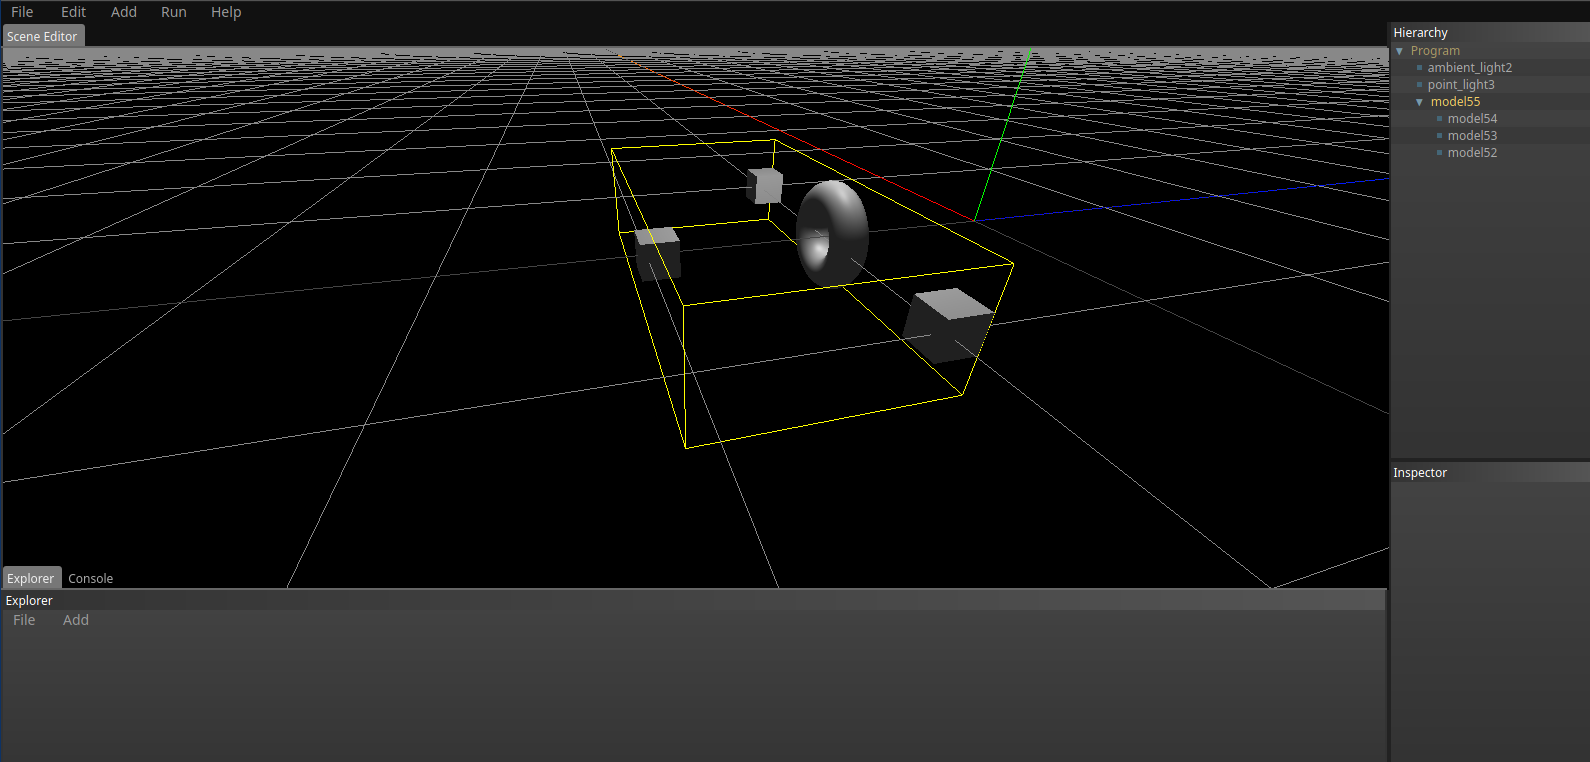
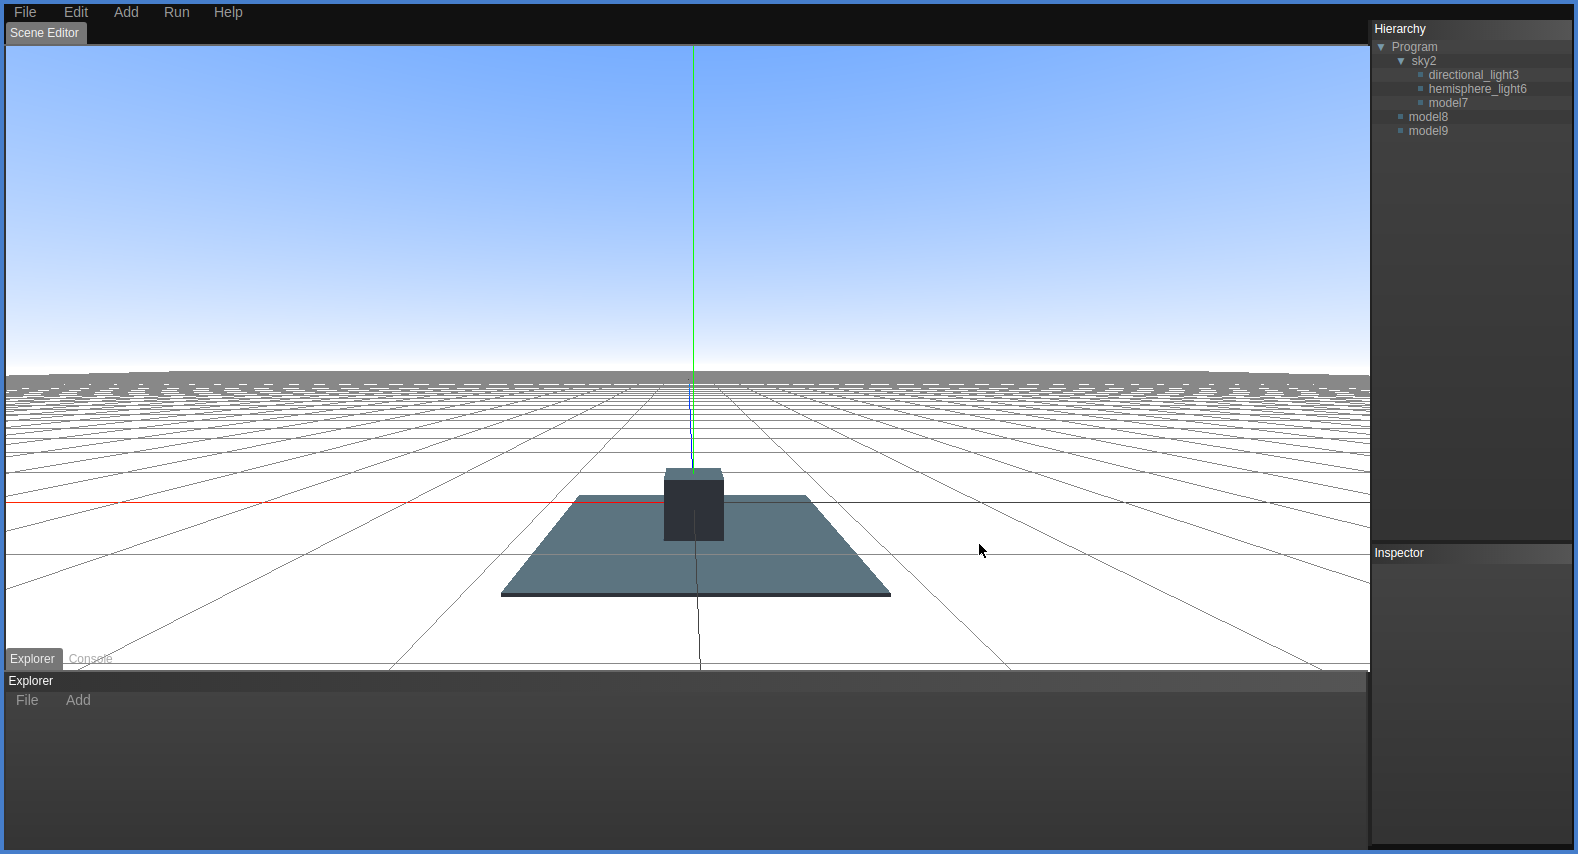
Added Hemisphere Light and updated Sky

diff --git a/build/App-rolling.js b/build/App-rolling.js
@@ -27712,11 +27712,22 @@ class Program {
 
 	addDefaultScene() {
 		var scene = new Scene()
-		scene.add(new AmbientLight(0x202020))
+		scene.add(new Sky())
 
-		var light = new PointLight(0xaaaaaa)
-		light.position.set(0, 5, -5)
-		scene.add(light)
+		var material = new THREE.MeshPhongMaterial()
+		var geometry = new THREE.BoxGeometry(2, 2, 2)
+		var model = new Model3D(geometry, material)
+		model.receiveShadow = true
+		model.castShadow = true
+		scene.add(model)
+
+		material = new THREE.MeshPhongMaterial()
+		geometry = new THREE.BoxGeometry(10, 0.1, 10)
+		model = new Model3D(geometry, material)
+		model.position.set(0, -1.05, 0)
+		model.receiveShadow = true
+		model.castShadow = true
+		scene.add(model)
 
 		this.addScene(scene)
 	
@@ -27981,6 +27992,29 @@ class AmbientLight extends THREE.AmbientLight {
 		}
 	}
 }
+class HemisphereLight extends THREE.HemisphereLight {
+	constructor(skyColorHex, groundColorHex, intensity) {
+		super(skyColorHex, groundColorHex, intensity)
+
+		this.name = "hemisphere_light"
+	}
+
+	initialize() {
+		for(var i = 0; i < this.children.length; i++) {
+			if (this.children[i].initialize != undefined) {
+				this.children[i].initialize()
+			}
+		}
+	}
+
+	update() {
+		for(var i = 0; i < this.children.length; i++) {
+			if (this.children[i].update != undefined) {
+				this.children[i].update()
+			}
+		}
+	}
+}
 class DirectionalLight extends THREE.DirectionalLight {
 	constructor(hex, intensity) {
 		super(hex, intensity)
@@ -28072,20 +28106,45 @@ class Empty extends THREE.Object3D {
 		}
 	}
 }
-class Sky extends THREE.DirectionalLight {
+class Sky extends THREE.Scene {
 	constructor() {
-		super(0xffffaa, 0.3)
+		super()
 
 		this.name = "sky"
 
-		this.castShadow = true
-
 		// Sun
+		this.sun = new DirectionalLight(0xffffaa, 0.3)
+		this.sun.castShadow = true
+		this.add(this.sun)
+
+		// Hemisphere
+		this.hemisphere = new HemisphereLight(0xffffff, 0xffffff, 0.3)
+		this.hemisphere.color.setHSL(0.6, 1, 0.6)
+		this.hemisphere.groundColor.setHSL(0.095, 1, 0.75)
+		this.hemisphere.position.set(0, 500, 0)
+		this.add(this.hemisphere)
+
+		// Sun position control
 		this.distance = 200
 		this.day_time = 10
-
-		// Runtime stuff 
 		this.time = 0
+
+		// Sky Shader
+		var vertex = App.readFile("data/shaders/sky_vertex.glsl")
+		var fragment = App.readFile("data/shaders/sky_fragment.glsl")
+		var uniforms = {
+			topColor: {type: "c", value: new THREE.Color(0x0077ff)},
+			bottomColor: {type: "c", value: new THREE.Color(0xffffff)},
+			offset: {type: "f", value: 33},
+			exponent: {type: "f", value: 0.6}
+		}
+		uniforms.topColor.value.copy(this.hemisphere.color)
+
+		// Sky
+		var geometry = new THREE.SphereGeometry(4000, 32, 15)
+		var material = new THREE.ShaderMaterial({vertexShader: vertex, fragmentShader: fragment, uniforms: uniforms, side: THREE.BackSide})
+		this.sky = new Model3D(geometry, material)
+		this.add(this.sky)
 
 	}
 
@@ -28098,11 +28157,11 @@ class Sky extends THREE.DirectionalLight {
 	}
 
 	update() {
-		this.time += App.delta_time / 1000
+		this.time += App.delta_time / (this.day_time * 1000)
 
 		// Update position
-		this.position.x = this.distance * Math.cos(this.time)
-		this.position.y = this.distance * Math.sin(this.time)
+		this.sun.position.x = this.distance * (Math.cos(this.time))
+		this.sun.position.y = this.distance * (Math.cos(this.time))
 
 		// Update children
 		for(var i = 0; i < this.children.length; i++) {

diff --git a/src/core/objects/Sky.js b/src/core/objects/Sky.js
@@ -1,17 +1,42 @@
-class Sky extends THREE.DirectionalLight {
+class Sky extends THREE.Scene {
 	constructor() {
-		super(0xffffaa, 0.3)
+		super()
 
 		this.name = "sky"
 
-		this.castShadow = true
-
 		// Sun
+		this.sun = new DirectionalLight(0xffffaa, 0.3)
+		this.sun.castShadow = true
+		this.add(this.sun)
+
+		// Hemisphere
+		this.hemisphere = new HemisphereLight(0xffffff, 0xffffff, 0.3)
+		this.hemisphere.color.setHSL(0.6, 1, 0.6)
+		this.hemisphere.groundColor.setHSL(0.095, 1, 0.75)
+		this.hemisphere.position.set(0, 500, 0)
+		this.add(this.hemisphere)
+
+		// Sun position control
 		this.distance = 200
 		this.day_time = 10
-
-		// Runtime stuff 
 		this.time = 0
+
+		// Sky Shader
+		var vertex = App.readFile("data/shaders/sky_vertex.glsl")
+		var fragment = App.readFile("data/shaders/sky_fragment.glsl")
+		var uniforms = {
+			topColor: {type: "c", value: new THREE.Color(0x0077ff)},
+			bottomColor: {type: "c", value: new THREE.Color(0xffffff)},
+			offset: {type: "f", value: 33},
+			exponent: {type: "f", value: 0.6}
+		}
+		uniforms.topColor.value.copy(this.hemisphere.color)
+
+		// Sky
+		var geometry = new THREE.SphereGeometry(4000, 32, 15)
+		var material = new THREE.ShaderMaterial({vertexShader: vertex, fragmentShader: fragment, uniforms: uniforms, side: THREE.BackSide})
+		this.sky = new Model3D(geometry, material)
+		this.add(this.sky)
 
 	}
 
@@ -24,11 +49,11 @@ class Sky extends THREE.DirectionalLight {
 	}
 
 	update() {
-		this.time += App.delta_time / 1000
+		this.time += App.delta_time / (this.day_time * 1000)
 
 		// Update position
-		this.position.x = this.distance * Math.cos(this.time)
-		this.position.y = this.distance * Math.sin(this.time)
+		this.sun.position.x = this.distance * (Math.cos(this.time))
+		this.sun.position.y = this.distance * (Math.cos(this.time))
 
 		// Update children
 		for(var i = 0; i < this.children.length; i++) {

diff --git a/src/core/Program.js b/src/core/Program.js
@@ -41,11 +41,22 @@ class Program {
 
 	addDefaultScene() {
 		var scene = new Scene()
-		scene.add(new AmbientLight(0x202020))
+		scene.add(new Sky())
 
-		var light = new PointLight(0xaaaaaa)
-		light.position.set(0, 5, -5)
-		scene.add(light)
+		var material = new THREE.MeshPhongMaterial()
+		var geometry = new THREE.BoxGeometry(2, 2, 2)
+		var model = new Model3D(geometry, material)
+		model.receiveShadow = true
+		model.castShadow = true
+		scene.add(model)
+
+		material = new THREE.MeshPhongMaterial()
+		geometry = new THREE.BoxGeometry(10, 0.1, 10)
+		model = new Model3D(geometry, material)
+		model.position.set(0, -1.05, 0)
+		model.receiveShadow = true
+		model.castShadow = true
+		scene.add(model)
 
 		this.addScene(scene)
 	

diff --git a/src/core/objects/HemisphereLight.js b/src/core/objects/HemisphereLight.js
@@ -1,0 +1,23 @@
+class HemisphereLight extends THREE.HemisphereLight {
+	constructor(skyColorHex, groundColorHex, intensity) {
+		super(skyColorHex, groundColorHex, intensity)
+
+		this.name = "hemisphere_light"
+	}
+
+	initialize() {
+		for(var i = 0; i < this.children.length; i++) {
+			if (this.children[i].initialize != undefined) {
+				this.children[i].initialize()
+			}
+		}
+	}
+
+	update() {
+		for(var i = 0; i < this.children.length; i++) {
+			if (this.children[i].update != undefined) {
+				this.children[i].update()
+			}
+		}
+	}
+}

diff --git a/libs/builder.py b/libs/builder.py
@@ -47,6 +47,7 @@ source.append("core/objects/Text3D.js")
 source.append("core/objects/PointLight.js")
 source.append("core/objects/SpotLight.js")
 source.append("core/objects/AmbientLight.js")
+source.append("core/objects/HemisphereLight.js")
 source.append("core/objects/DirectionalLight.js")
 source.append("core/objects/PerspectiveCamera.js")
 source.append("core/objects/OrthographicCamera.js")

diff --git a/README.md b/README.md
@@ -5,8 +5,8 @@ Gorlot Engine is a 3D Game engine coded in JavaScript, based in Three.JS and nun
 ## Screenshots
 **Note:** The GUI can change, and the graphics WILL vary. Don't base yourself in these screenshots, you'd better download the source code and test it out (It's nothing but 1 MB worth - for now -)
 
-![Parent/child system](imgs/1.png)
-![Lights](imgs/2.png)
+![The default scene](imgs/1.png)
+![Parent/Child system](imgs/2.png)
 ![The code Editor](imgs/3.png)
 
 ## Technologies used
